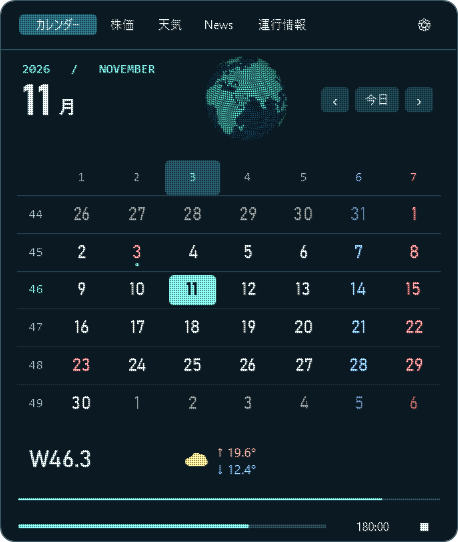
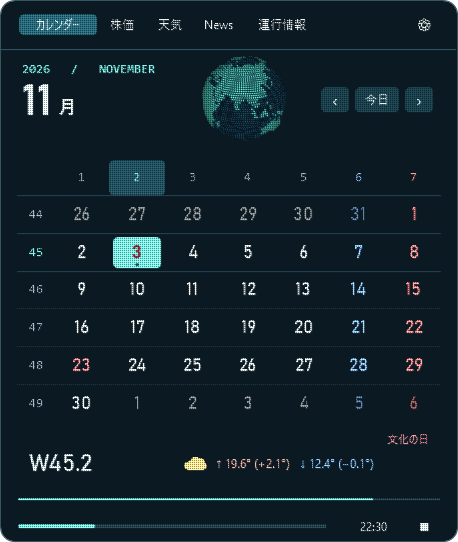
Show calendar temperatures side by side with previous-day differences

diff --git a/src/Calendar.xaml b/src/Calendar.xaml
@@ -73,13 +73,13 @@
       <Grid Name="Dates" Grid.Row="1" Margin="16,10,16,8"/>
       <Border Grid.Row="2" Background="#152E39" CornerRadius="7" Margin="16,0,16,7" Padding="12,0">
         <Grid>
-          <Grid.ColumnDefinitions><ColumnDefinition Width="100"/><ColumnDefinition/><ColumnDefinition Width="118"/></Grid.ColumnDefinitions>
-          <TextBlock Name="SelectedDate" FontSize="24" FontFamily="Bahnschrift" VerticalAlignment="Center"/>
-          <StackPanel Name="TodayWeatherGroup" Grid.Column="1" Orientation="Horizontal" HorizontalAlignment="Center" VerticalAlignment="Center">
+          <Grid.ColumnDefinitions><ColumnDefinition Width="100"/><ColumnDefinition/></Grid.ColumnDefinitions>
+          <TextBlock Name="SelectedDate" FontSize="24" FontFamily="Bahnschrift" VerticalAlignment="Center" Margin="0,8,0,0"/>
+          <StackPanel Name="TodayWeatherGroup" Grid.Column="1" Orientation="Horizontal" HorizontalAlignment="Center" VerticalAlignment="Center" Margin="0,8,0,0">
             <TextBlock Name="TodayWeather" Text="" FontSize="26" FontFamily="Segoe UI Symbol" Foreground="#F4DD8E" VerticalAlignment="Center"/>
-            <StackPanel Name="TodayTemperatures" Margin="9,0,0,0" VerticalAlignment="Center"><TextBlock Name="TodayHigh" FontSize="13" Foreground="#F4B09F"/><TextBlock Name="TodayLow" FontSize="13" Foreground="#8EC5FF"/></StackPanel>
+            <StackPanel Name="TodayTemperatures" Orientation="Horizontal" Margin="9,0,0,0" VerticalAlignment="Center"><TextBlock Name="TodayHigh" FontSize="12" Foreground="#F4B09F"/><TextBlock Name="TodayLow" FontSize="12" Foreground="#8EC5FF" Margin="10,0,0,0"/></StackPanel>
           </StackPanel>
-          <TextBlock Name="HolidayName" Grid.Column="2" MaxWidth="118" TextTrimming="CharacterEllipsis" FontSize="12" Foreground="#FF9699" HorizontalAlignment="Right" VerticalAlignment="Center"/>
+          <TextBlock Name="HolidayName" Grid.Column="1" MaxWidth="190" TextTrimming="CharacterEllipsis" FontSize="11" Foreground="#FF9699" HorizontalAlignment="Right" VerticalAlignment="Top" Margin="0,2,0,0"/>
 
         </Grid>
       </Border>

diff --git a/src/WeatherForecast.cs b/src/WeatherForecast.cs
@@ -33,7 +33,28 @@ namespace OrbitCalendar
             public string Place;
             public DateTime Fetched;
             public string CoordinateKey;
+            public double? PreviousHigh, PreviousLow;
             public static DateTime Utc(long seconds) { return new DateTime(1970, 1, 1, 0, 0, 0, DateTimeKind.Utc).AddSeconds(seconds); }
+            internal void SelectForecastDays(DateTime today)
+            {
+                if (daily == null || daily.time == null) throw new InvalidDataException("日別の予報がありません");
+                int first = Array.FindIndex(daily.time, t => Utc(t).AddHours(9).Date == today.Date);
+                int end = first + 3;
+                if (first < 0 || daily.time.Length < end || daily.weather_code == null || daily.weather_code.Length < end ||
+                    daily.temperature_2m_max == null || daily.temperature_2m_max.Length < end || daily.temperature_2m_min == null || daily.temperature_2m_min.Length < end ||
+                    daily.precipitation_probability_max == null || daily.precipitation_probability_max.Length < end)
+                    throw new InvalidDataException("3日間の予報がありません");
+                PreviousHigh = PreviousLow = null;
+                if (first > 0 && Utc(daily.time[first - 1]).AddHours(9).Date == today.Date.AddDays(-1))
+                {
+                    PreviousHigh = daily.temperature_2m_max[first - 1]; PreviousLow = daily.temperature_2m_min[first - 1];
+                }
+                daily.time = daily.time.Skip(first).Take(3).ToArray();
+                daily.weather_code = daily.weather_code.Skip(first).Take(3).ToArray();
+                daily.temperature_2m_max = daily.temperature_2m_max.Skip(first).Take(3).ToArray();
+                daily.temperature_2m_min = daily.temperature_2m_min.Skip(first).Take(3).ToArray();
+                daily.precipitation_probability_max = daily.precipitation_probability_max.Skip(first).Take(3).ToArray();
+            }
             public double? Temperature(DateTime utc)
             {
                 if (hourly == null || hourly.time == null || hourly.temperature_2m == null) return null;
@@ -66,10 +87,8 @@ namespace OrbitCalendar
             if (!force && previous != null && previous.CoordinateKey == key && previous.Place == place && DateTime.UtcNow - previous.Fetched < TimeSpan.FromMinutes(15) && WeatherForecast.Utc(previous.daily.time[0]).AddHours(9).Date == DateTime.UtcNow.AddHours(9).Date) return previous;
             var parts = key.Split(',');
             var data = await Json<WeatherForecast>("https://api.open-meteo.com/v1/forecast?latitude=" + parts[0] + "&longitude=" + parts[1] +
-                "&hourly=temperature_2m,precipitation_probability,weather_code,wind_speed_10m&daily=weather_code,temperature_2m_max,temperature_2m_min,precipitation_probability_max&forecast_days=3&timeformat=unixtime&timezone=Asia%2FTokyo", token).ConfigureAwait(false);
-            if (data.daily == null || data.daily.time == null || data.daily.time.Length < 3 || data.daily.weather_code == null || data.daily.weather_code.Length < 3 ||
-                data.daily.temperature_2m_max == null || data.daily.temperature_2m_max.Length < 3 || data.daily.temperature_2m_min == null || data.daily.temperature_2m_min.Length < 3 ||
-                data.daily.precipitation_probability_max == null || data.daily.precipitation_probability_max.Length < 3) throw new InvalidDataException("3日間の予報がありません");
+                "&hourly=temperature_2m,precipitation_probability,weather_code,wind_speed_10m&daily=weather_code,temperature_2m_max,temperature_2m_min,precipitation_probability_max&past_days=1&forecast_days=3&timeformat=unixtime&timezone=Asia%2FTokyo", token).ConfigureAwait(false);
+            data.SelectForecastDays(DateTime.UtcNow.AddHours(9).Date);
             data.Fetched = DateTime.UtcNow; data.Place = place; data.CoordinateKey = key;
             token.ThrowIfCancellationRequested();
             CachedForecast = data;

diff --git a/src/TodayWeather.cs b/src/TodayWeather.cs
@@ -24,6 +24,28 @@ namespace OrbitCalendar
         DateTime nextTodayWeather;
         bool updatingToday;
 
+        static string ComparedTemperature(double? value, double? previous)
+        {
+            string difference = "—";
+            if (value.HasValue && previous.HasValue)
+            {
+                double delta = Math.Round(value.Value - previous.Value, 1, MidpointRounding.AwayFromZero);
+                difference = (delta > 0 ? "+" : delta < 0 ? "−" : "") + Math.Abs(delta).ToString("0.#", CultureInfo.InvariantCulture) + "°";
+            }
+            return Value(value, "°") + " (" + difference + ")";
+        }
+
+        void RenderTodayWeather(LiveData.WeatherForecast forecast)
+        {
+            Get<TextBlock>("TodayHigh").Text = "↑ " + ComparedTemperature(forecast.daily.temperature_2m_max[0], forecast.PreviousHigh);
+            Get<TextBlock>("TodayLow").Text = "↓ " + ComparedTemperature(forecast.daily.temperature_2m_min[0], forecast.PreviousLow);
+            Get<StackPanel>("TodayTemperatures").ToolTip = "今日の最高 / 最低気温（括弧内は前日の最高 / 最低との差） · " + forecast.Place + " · Open-Meteoのモデル値";
+            var icon = Get<TextBlock>("TodayWeather");
+            int? code = forecast.daily.weather_code[0];
+            icon.Text = code.HasValue ? WeatherIcons.Glyph(code.Value) : "◌";
+            icon.ToolTip = DateTime.Now.ToString("M/d") + " 今日の代表的な天気（時間の変化は表しません） · " + forecast.Place + " · Open-Meteo";
+        }
+
         async void UpdateTodayWeather()
         {
             if (updatingToday || DateTime.UtcNow < nextTodayWeather) return;
@@ -36,18 +58,13 @@ namespace OrbitCalendar
                 var forecast = await LiveData.ForecastWeather(CancellationToken.None, false);
                 int? code = forecast.daily.weather_code[0];
                 if (revision != SavedPlace.Revision) { nextTodayWeather = DateTime.MinValue; return; }
-                Get<TextBlock>("TodayHigh").Text = "↑ " + Value(forecast.daily.temperature_2m_max[0], "°");
-                Get<TextBlock>("TodayLow").Text = "↓ " + Value(forecast.daily.temperature_2m_min[0], "°");
-                Get<StackPanel>("TodayTemperatures").ToolTip = "今日の最高 / 最低気温 · " + forecast.Place + " · Open-Meteo";
-                icon.Text = code.HasValue ? WeatherIcons.Glyph(code.Value) : "◌";
-                icon.ToolTip = code.HasValue ? DateTime.Now.ToString("M/d") + " 今日の天気予報 · " + forecast.Place + " · Open-Meteo" :
-                    "今日の天気 · 現在地を取得できませんでした";
+                RenderTodayWeather(forecast);
                 if (code.HasValue) nextTodayWeather = DateTime.UtcNow.AddHours(1);
             }
             catch (Exception)
             {
                 icon.Text = "◌";
-                Get<TextBlock>("TodayHigh").Text = "↑ —"; Get<TextBlock>("TodayLow").Text = "↓ —";
+                Get<TextBlock>("TodayHigh").Text = "↑ — (—)"; Get<TextBlock>("TodayLow").Text = "↓ — (—)";
                 icon.ToolTip = "今日の天気を取得できませんでした";
             }
             finally { updatingToday = false; if (IsVisible && mode == 0) effect.Refresh(); }
